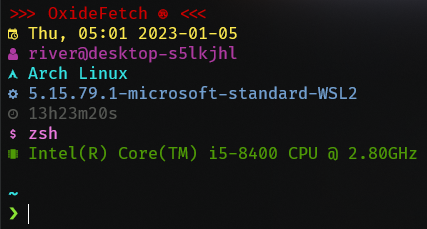
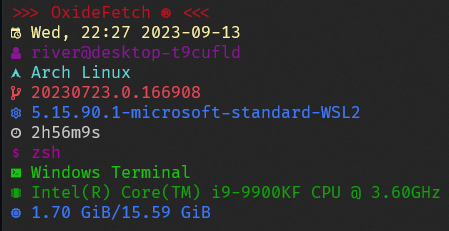
Updated version numbers and README.

Changed region(s): [[0.0, 0.0, 1.0, 1.0], [0.4871, 0.6419, 0.7916, 0.7031], [0.822, 0.6419, 0.9742, 0.7031]]

diff --git a/README.md b/README.md
@@ -1,4 +1,4 @@
-# oxidefetch 1.3.2
+# oxidefetch 1.4.0
 Fully cross platform Neofetch clone written in Rust. Up to 25 times faster than Neofetch!  
 
 ![alt text](image.png "Example output of OxideFetch on a WSL2 Arch Linux host")  
@@ -10,6 +10,9 @@ Neofetch, being a BASH script, has a few downsides in my opinion.
 3: It's kinda big, and I like having more compact info.  
 As such, I wrote OxideFetch. How cool is that? It displays your information in a manner that's compact, cross-platform, and BLAZINGLY fast. 
 I've measured speeds of up to 25 times faster than normal Neofetch on WSL2.
+
+### Special Thanks
+The most heartfelt of thanks goes out to NamedNeon, who contributed the code to perform terminal detection.  
 
 ### Features  
 OxideFetch can display all of the following information:  
@@ -23,6 +26,7 @@ OxideFetch can display all of the following information:
 - CPU  
 - GPU  
 - Memory  
+- Terminal emulator  
 
 ### Installation  
 Download a binary for your platform, and place it in your PATH.  
@@ -64,6 +68,7 @@ No weird quirks to report at this time.
 - Add host system name detection such as "Windows Subsystem for Linux", "IdeaPad 3", "Dell Optiplex", etc.  
 - Add package count/package manager detection  
 - Crosstest on more distributions to verify `sys.name()` outputs  
+- Refactor GPU detection logic into separate crate, remove dependencies on `sh` and `lspci`
 #### Distant future:
 - More extensible user configuration for entry formatting  
 
@@ -77,7 +82,8 @@ No weird quirks to report at this time.
 **1.2.1:** Stable fix for GPU display quirks.  
 **1.2.2:** All GPUs should print in their own lines.  
 **1.3.0:** Tentative fix for issue where empty GPU info line might print on Linux.  
-**1.3.2:** Changed color of time output to be more visible on gray terminals.
+**1.3.2:** Changed color of time output to be more visible on gray terminals.  
+**1.4.0:** Added support for terminal detection, and fixed system detection on Darwin systems.
 
 ### License
 This software is covered by the MIT license. See license.txt for details.
